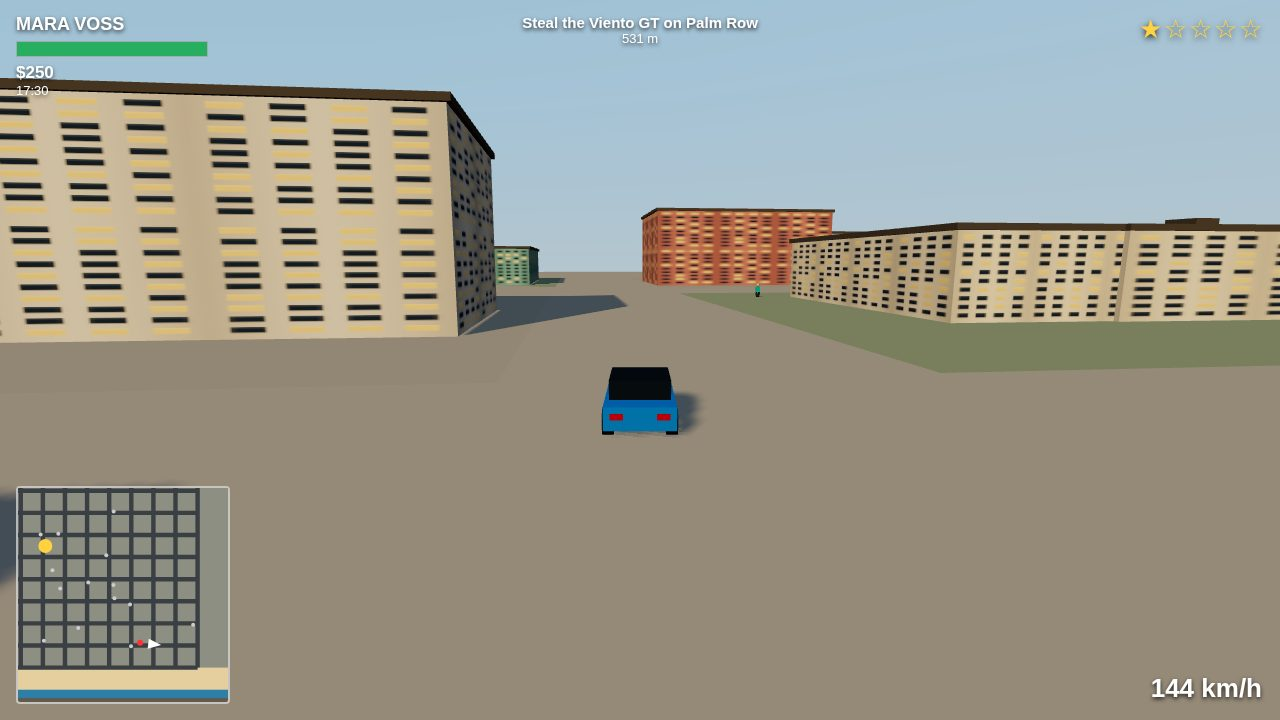
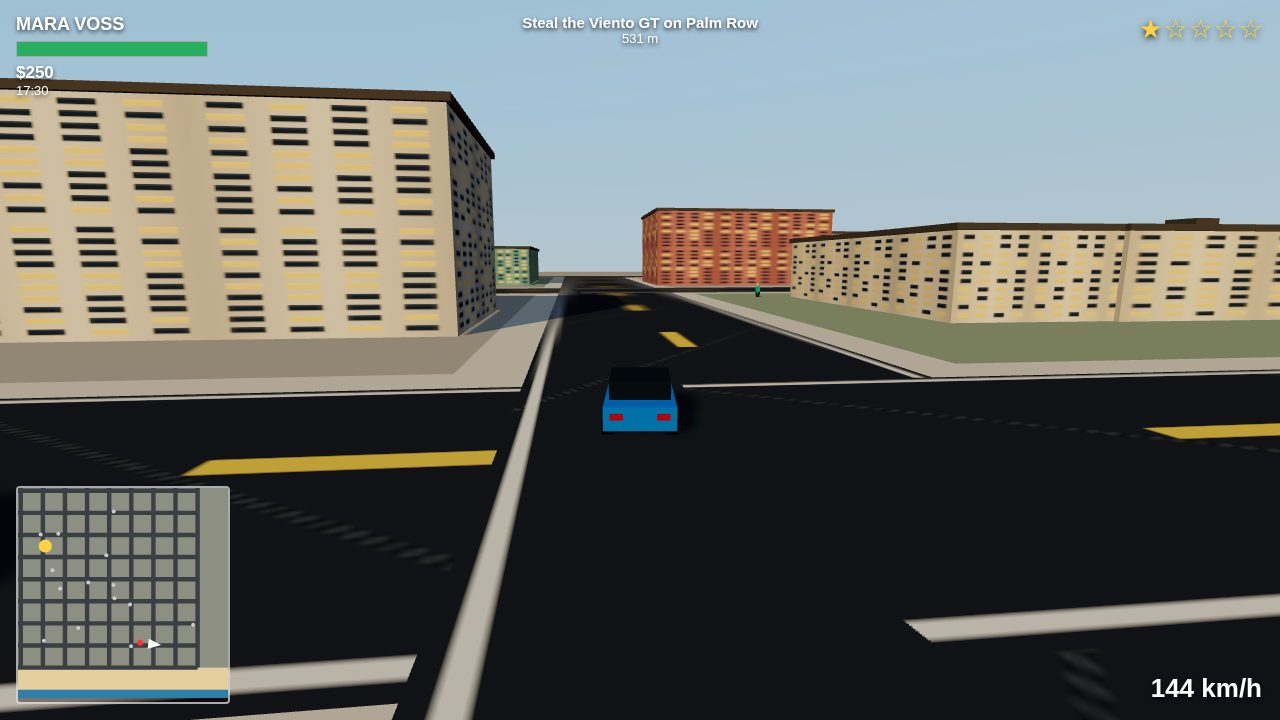
Solmar Bay — road surfacing polish

diff --git a/game/src/world.js b/game/src/world.js
@@ -41,16 +41,23 @@ function makeRoadTexture() {
   const c = document.createElement('canvas');
   c.width = 128; c.height = 128;
   const g = c.getContext('2d');
-  g.fillStyle = '#3a3f44';
+  // dark asphalt base
+  g.fillStyle = '#33373c';
   g.fillRect(0, 0, 128, 128);
-  // edge wear
-  g.fillStyle = 'rgba(0,0,0,0.25)';
-  g.fillRect(0, 0, 128, 6);
-  g.fillRect(0, 122, 128, 6);
-  // centre dashes
+  // asphalt grain: deterministic speckles so the surface is not flat paint
+  for (let i = 0; i < 350; i++) {
+    const x = (i * 37 + 11) % 128;
+    const y = (i * 91 + 53) % 128;
+    g.fillStyle = i % 2 ? 'rgba(255,255,255,0.05)' : 'rgba(0,0,0,0.08)';
+    g.fillRect(x, y, 2, 2);
+  }
+  // white edge lines, running the length of the tile
   g.fillStyle = '#e8e4d8';
-  g.fillRect(60, 8, 8, 40);
-  g.fillRect(60, 72, 8, 40);
+  g.fillRect(3, 0, 3, 128);
+  g.fillRect(122, 0, 3, 128);
+  // yellow centre dash (one per tile; the repeat below spaces them)
+  g.fillStyle = '#f0c94a';
+  g.fillRect(60, 8, 8, 36);
   const tex = new THREE.CanvasTexture(c);
   tex.wrapS = THREE.RepeatWrapping;
   tex.wrapT = THREE.RepeatWrapping;
@@ -112,28 +119,45 @@ export function buildWorld(scene, seed) {
     }
   }
 
-  // --- roads: dark strips with dashed centre lines, along every street
+  // --- roads: dark asphalt strips with yellow centre dashes on every
+  // street, over paler sidewalk borders so each street reads as a street.
+  // Strips run along their street centrelines: vertical roads along z at
+  // x = i*PITCH, horizontal roads along x at z = i*PITCH.
   const roadTex = makeRoadTexture();
-  const roadMat = new THREE.MeshLambertMaterial({ map: roadTex });
+  roadTex.repeat.set(1, SIZE / 24);
+  const roadTexH = roadTex.clone();
+  roadTexH.needsUpdate = true;
+  const roadMatV = new THREE.MeshLambertMaterial({ map: roadTex });
+  const roadMatH = new THREE.MeshLambertMaterial({ map: roadTexH });
+  const walkMat = new THREE.MeshLambertMaterial({ color: 0xd9d2c0 });
+  const walkW = STREET_W + 6; // 3 m of pale border each side of the asphalt
   for (let i = 0; i < STREETS; i++) {
     const c = i * PITCH;
-    // vertical road (along z)
-    const rv = new THREE.Mesh(new THREE.PlaneGeometry(STREET_W, SIZE), roadMat.clone());
-    rv.material.map = roadTex.clone();
-    rv.material.map.repeat.set(1, SIZE / 64);
-    rv.material.map.needsUpdate = true;
+    // sidewalk border under the vertical road (along z, at x = c)
+    const wv = new THREE.Mesh(new THREE.PlaneGeometry(walkW, SIZE), walkMat);
+    wv.rotation.x = -Math.PI / 2;
+    wv.position.set(c, 0.02, SIZE / 2);
+    wv.receiveShadow = true;
+    group.add(wv);
+    // sidewalk border under the horizontal road (along x, at z = c)
+    const wh = new THREE.Mesh(new THREE.PlaneGeometry(SIZE, walkW), walkMat);
+    wh.rotation.x = -Math.PI / 2;
+    wh.position.set(SIZE / 2, 0.02, c);
+    wh.receiveShadow = true;
+    group.add(wh);
+    // vertical asphalt (along z) at x = c: the plane's length axis is
+    // already z, so no extra rotation; the texture's dash runs with it
+    const rv = new THREE.Mesh(new THREE.PlaneGeometry(STREET_W, SIZE), roadMatV);
     rv.rotation.x = -Math.PI / 2;
-    rv.rotation.z = Math.PI / 2;
-    rv.position.set(c, 0.02, SIZE / 2);
+    rv.position.set(c, 0.04, SIZE / 2);
     rv.receiveShadow = true;
     group.add(rv);
-    // horizontal road (along x)
-    const rh = new THREE.Mesh(new THREE.PlaneGeometry(STREET_W, SIZE), roadMat.clone());
-    rh.material.map = roadTex.clone();
-    rh.material.map.repeat.set(1, SIZE / 64);
-    rh.material.map.needsUpdate = true;
+    // horizontal asphalt (along x) at z = c: the extra z-rotation swings
+    // the plane's length axis (and the texture's dash direction) onto x
+    const rh = new THREE.Mesh(new THREE.PlaneGeometry(STREET_W, SIZE), roadMatH);
     rh.rotation.x = -Math.PI / 2;
-    rh.position.set(SIZE / 2, 0.02, c);
+    rh.rotation.z = Math.PI / 2;
+    rh.position.set(SIZE / 2, 0.04, c);
     rh.receiveShadow = true;
     group.add(rh);
   }
